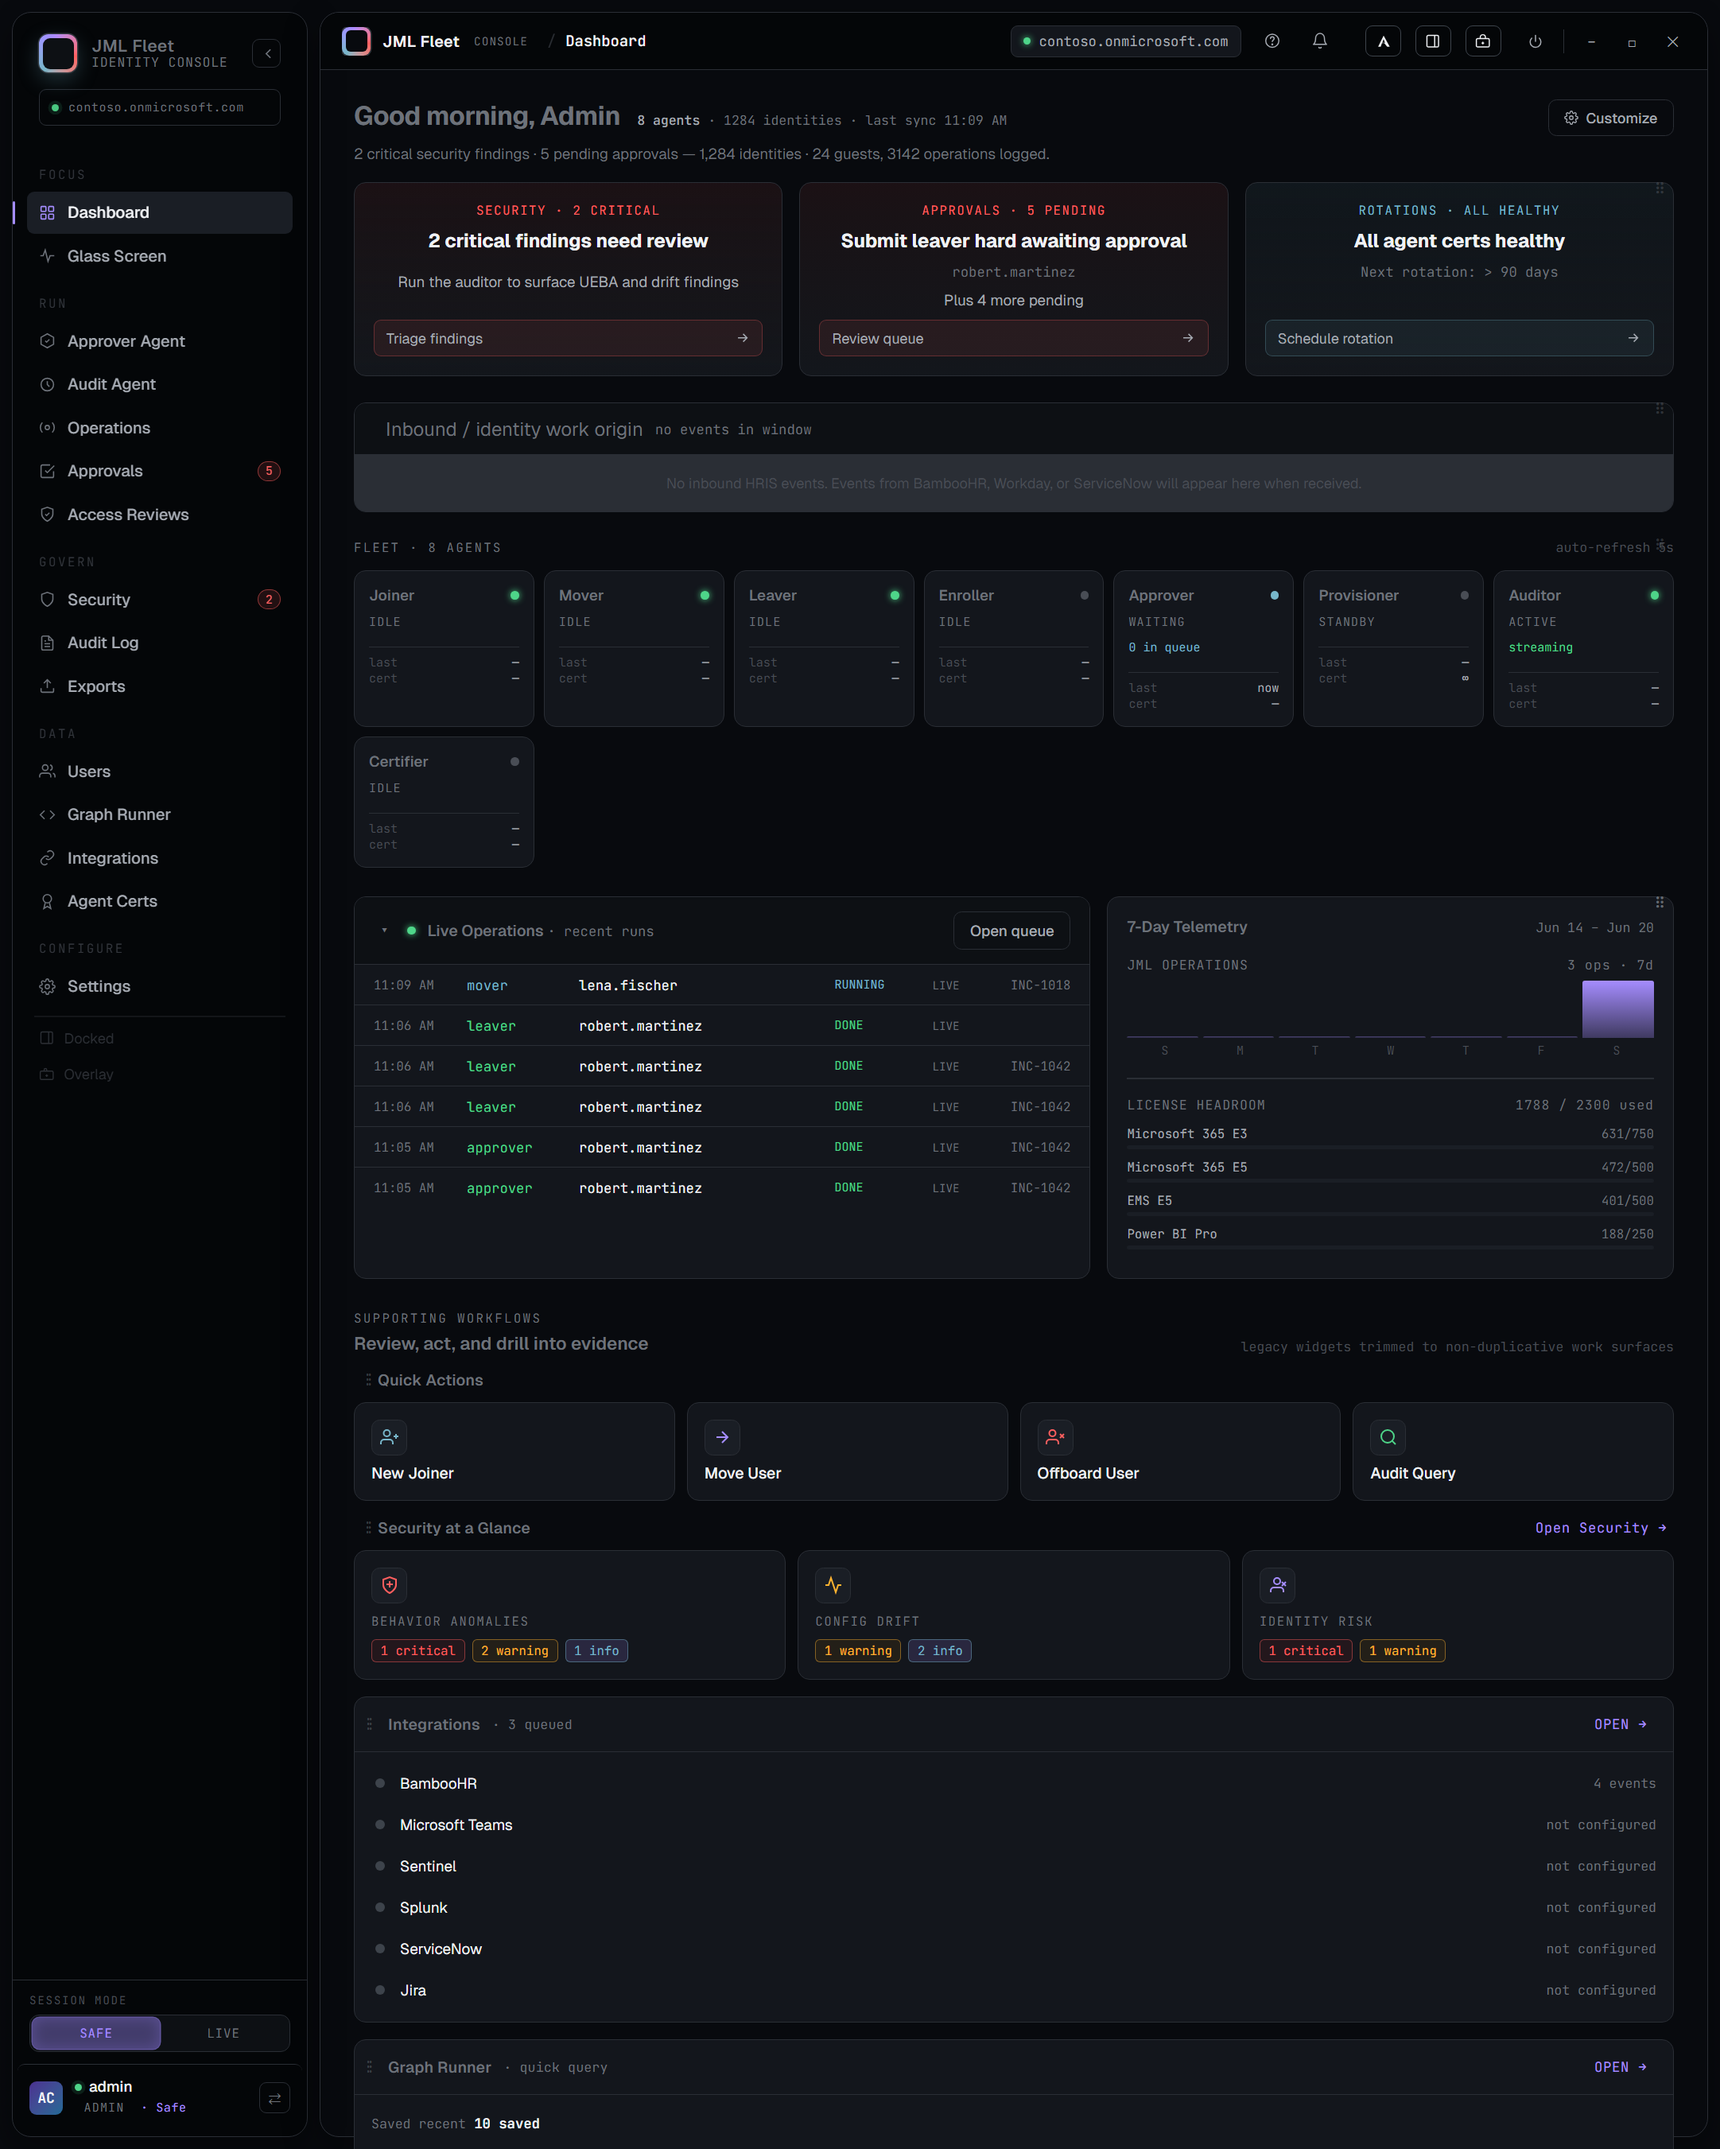
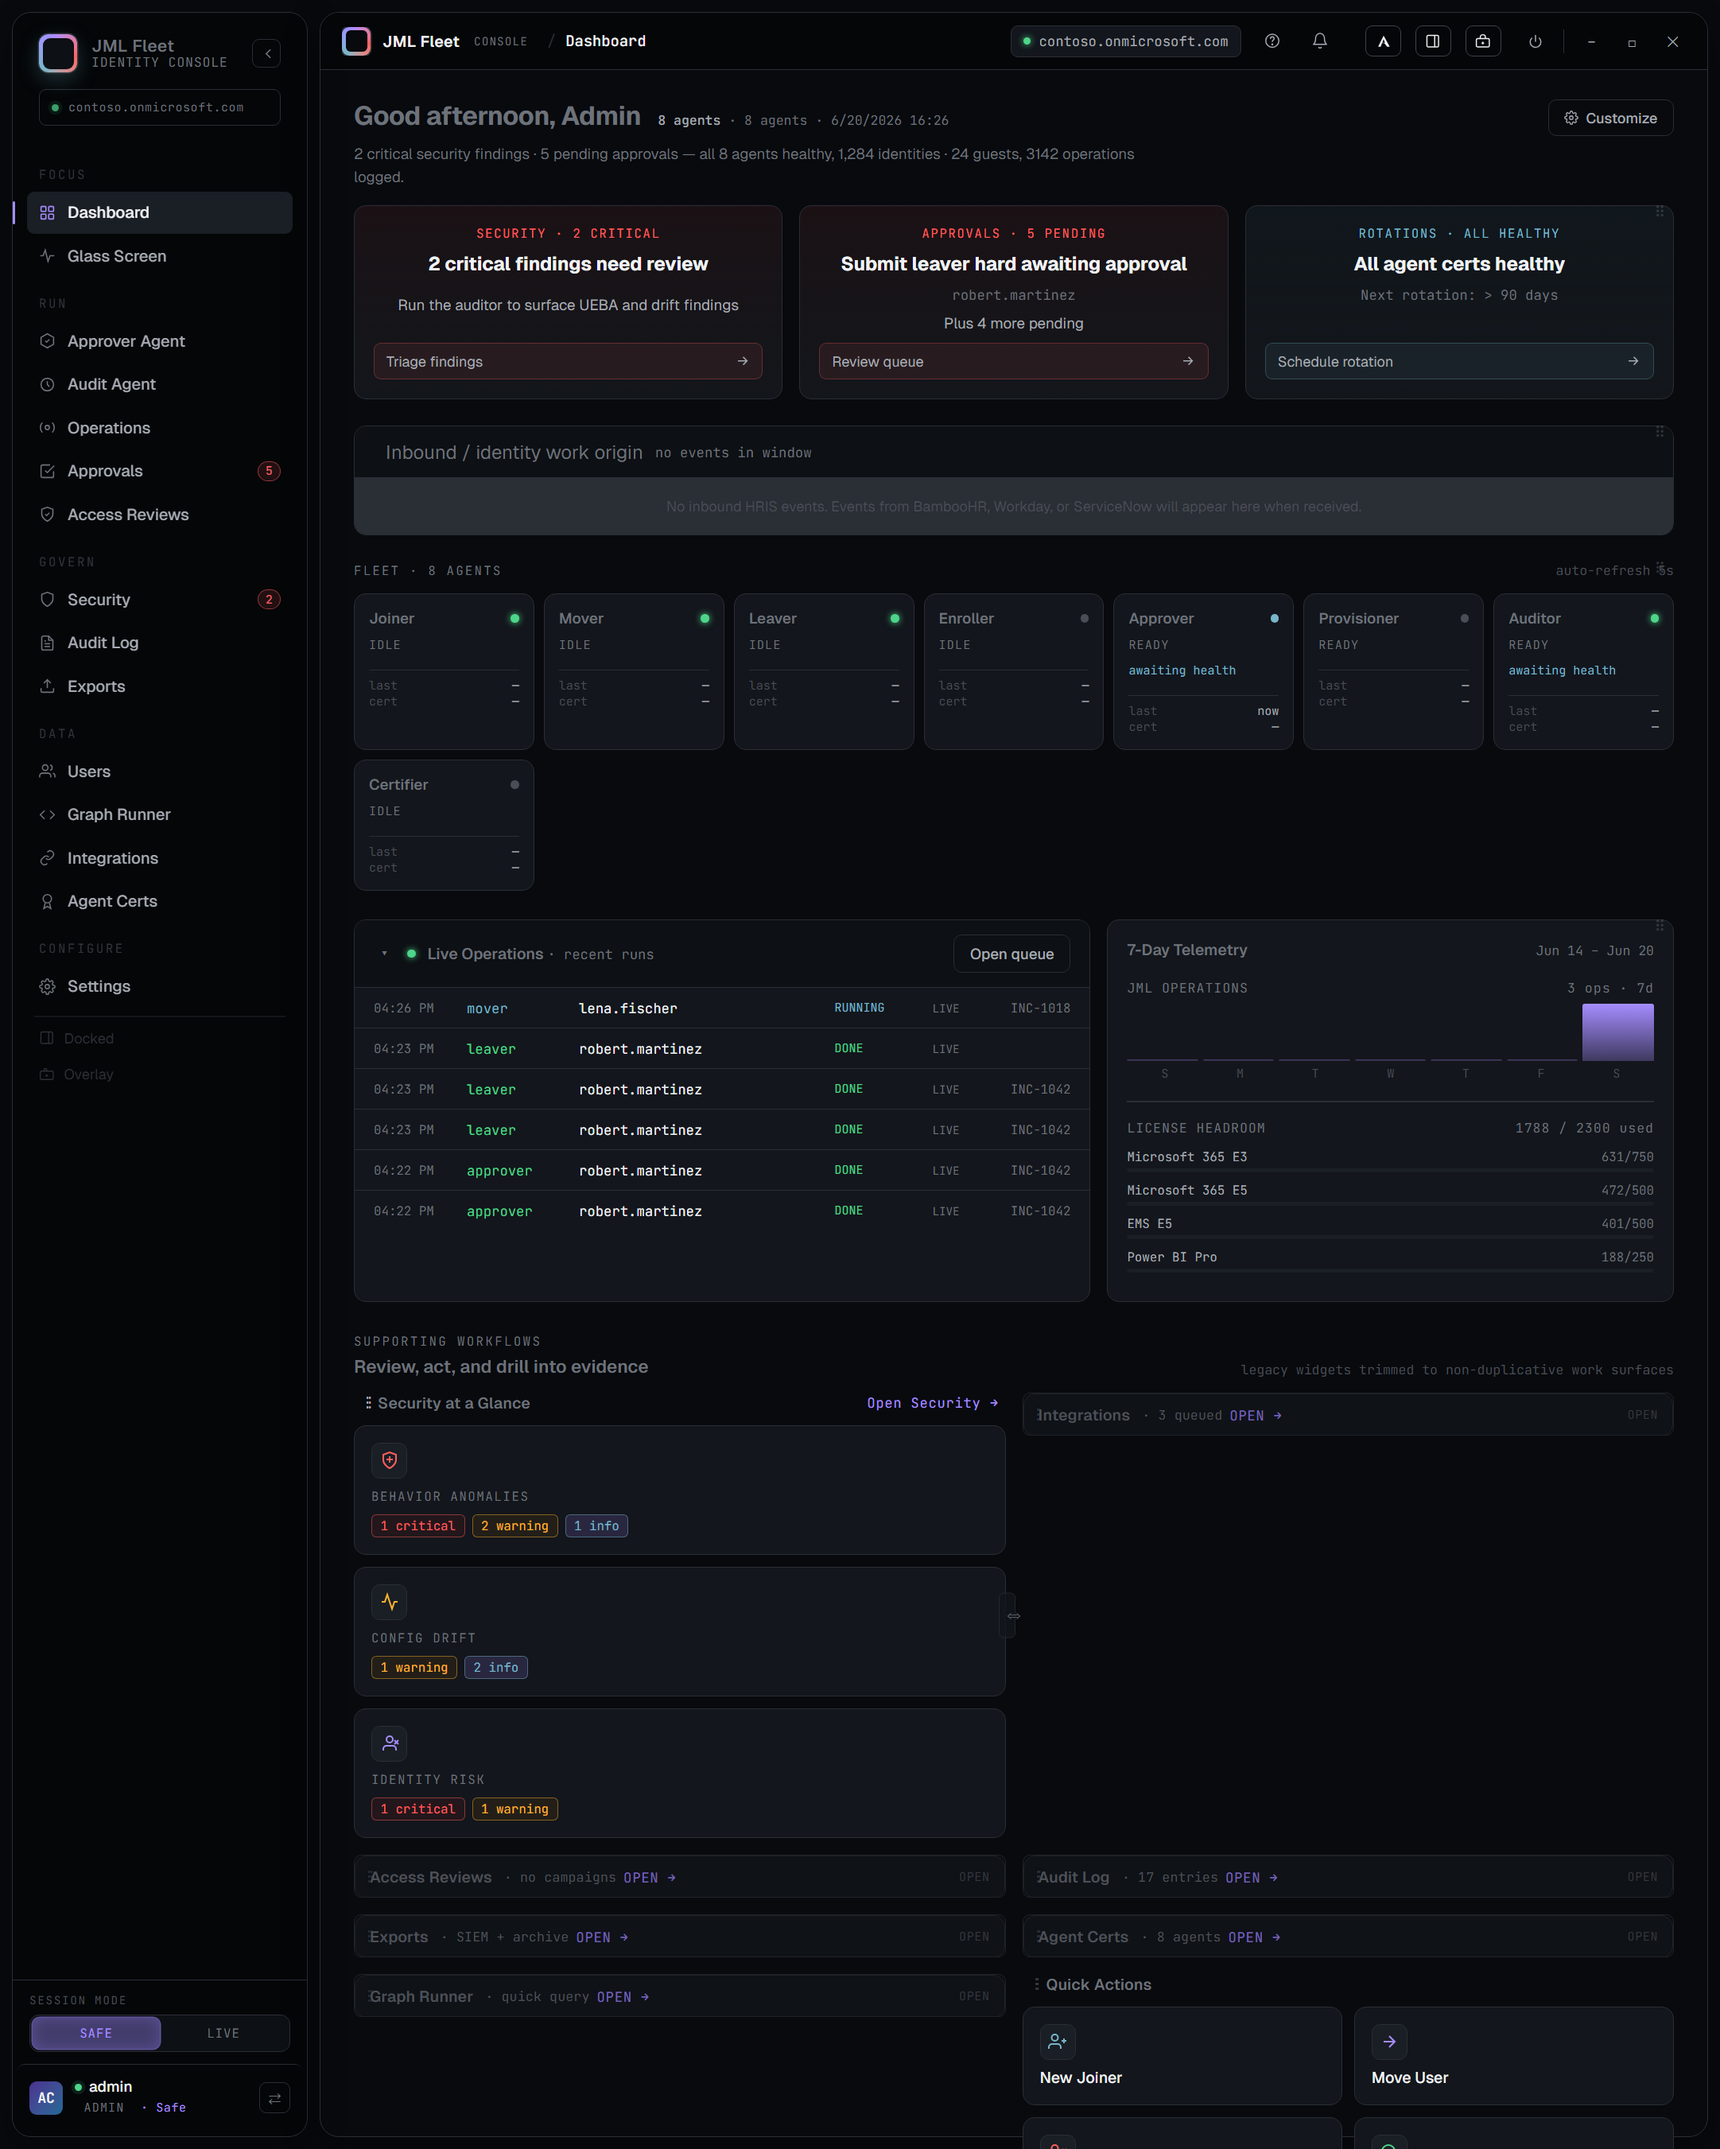
Dashboard KPI sparklines: wire JML Ops to real data, drop fake trends
The three KPI sparklines were hardcoded decorative SVG (fixed trend lines/bars
that never reflected data). The "JML Operations · 7d" sparkline is now driven by
the same real 7-day buckets as the telemetry card; the Identities and Pending
Approvals sparklines (no historical time-series exists to back them) are removed
rather than faking a trend. Also drops the "Roadmap" label chip from the Exports
connector strip per request (+ its now-unused CSS).

Screenshots refreshed (dashboard, exports). 130 tests pass.

diff --git a/electron-app/renderer/index.html b/electron-app/renderer/index.html
@@ -462,10 +462,6 @@
               <div class="lbl stat-label">Identities <span class="live">LIVE</span></div>
               <div class="v stat-value loading" id="stat-users-total">—</div>
               <div class="meta stat-detail loading" id="stat-users-detail">Loading…</div>
-              <svg class="spark" viewBox="0 0 100 40" preserveAspectRatio="none" aria-hidden="true">
-                <polyline fill="oklch(0.55 0.12 195 / .15)" stroke="none" points="0,30 12,28 22,29 35,22 48,24 60,18 72,15 85,12 100,8 100,40 0,40"/>
-                <polyline fill="none" stroke="oklch(0.82 0.14 195)" stroke-width="1.4" points="0,30 12,28 22,29 35,22 48,24 60,18 72,15 85,12 100,8"/>
-              </svg>
             </div>
             <div class="kpi stat-card k-licenses" id="stat-licenses">
               <div class="lbl stat-label">Licenses</div>
@@ -477,22 +473,13 @@
               <div class="v stat-value loading" id="stat-activity-total">—</div>
               <div class="meta stat-detail loading" id="stat-activity-detail">Loading…</div>
               <svg class="spark" viewBox="0 0 100 40" preserveAspectRatio="none" aria-hidden="true">
-                <g fill="oklch(0.55 0.14 75 / .5)" stroke="none">
-                  <rect x="2" y="20" width="6" height="20"/><rect x="12" y="15" width="6" height="25"/>
-                  <rect x="22" y="10" width="6" height="30"/><rect x="32" y="22" width="6" height="18"/>
-                  <rect x="42" y="18" width="6" height="22"/><rect x="52" y="8"  width="6" height="32"/>
-                  <rect x="62" y="12" width="6" height="28"/><rect x="72" y="14" width="6" height="26"/>
-                  <rect x="82" y="10" width="6" height="30"/><rect x="92" y="20" width="6" height="20"/>
-                </g>
+                <g id="stat-ops-spark" fill="oklch(0.55 0.14 75 / .5)" stroke="none"></g>
               </svg>
             </div>
             <div class="kpi stat-card k-risk" id="stat-approvals">
               <div class="lbl stat-label">Pending Approvals</div>
               <div class="v stat-value loading" id="stat-approvals-count">—</div>
               <div class="meta stat-detail" id="stat-approvals-detail">Loading…</div>
-              <svg class="spark" viewBox="0 0 100 40" preserveAspectRatio="none" aria-hidden="true">
-                <polyline fill="none" stroke="oklch(0.70 0.20 24)" stroke-width="1.4" points="0,28 12,30 25,28 38,22 50,24 62,18 75,14 88,10 100,12"/>
-              </svg>
             </div>
           </div>
           </div>
@@ -1731,8 +1718,7 @@
           </div>
 
           <!-- Roadmap connectors: compact footer instead of full empty cards. -->
-          <div class="exp-roadmap" aria-label="Roadmap connectors">
-            <span class="exp-roadmap-lbl">Roadmap</span>
+          <div class="exp-roadmap" aria-label="Planned connectors">
             <span class="exp-roadmap-item">Splunk Cloud <em>HEC</em></span>
             <span class="exp-roadmap-sep">·</span>
             <span class="exp-roadmap-item">AWS S3 Compliance Mirror <em>object-lock / WORM</em></span>

diff --git a/electron-app/renderer/app.js b/electron-app/renderer/app.js
@@ -3909,6 +3909,17 @@ function renderTelemetryChart(operations) {
   });
   const daySpans = document.querySelectorAll('.v2-bar-days span');
   buckets.forEach((b, i) => { if (daySpans[i]) daySpans[i].textContent = WK[b.date.getDay()][0]; });
+
+  // Dashboard KPI "JML Operations · 7d" sparkline — driven by the SAME real
+  // 7-day buckets (was a hardcoded decorative drawing). viewBox is 0 0 100 40.
+  const opsSpark = document.getElementById('stat-ops-spark');
+  if (opsSpark) {
+    const bw = 8, step = 14, base = 4;
+    opsSpark.innerHTML = buckets.map((b, i) => {
+      const h = b.count ? Math.max(3, Math.round((b.count / max) * 34)) : 2;
+      return `<rect x="${base + i * step}" y="${40 - h}" width="${bw}" height="${h}"></rect>`;
+    }).join('');
+  }
   const totalEl = document.getElementById('v2-telemetry-ops-total');
   if (totalEl) totalEl.textContent = `${total} ops · 7d`;
   const rangeEl = document.getElementById('v2-telemetry-range');

diff --git a/electron-app/renderer/styles.css b/electron-app/renderer/styles.css
@@ -3858,10 +3858,6 @@ label { font-size: 12.5px; color: var(--text-2); }
   background: color-mix(in oklch, var(--surface) 45%, transparent);
   font-size: 12px; color: var(--text-2);
 }
-.exp-roadmap-lbl {
-  font-family: var(--mono); font-size: 9.5px; letter-spacing: .12em; text-transform: uppercase;
-  color: var(--text-4, var(--muted)); padding: 2px 7px; border: 1px solid var(--border); border-radius: 4px;
-}
 .exp-roadmap-item { font-weight: 600; color: var(--text); }
 .exp-roadmap-item em { font-family: var(--mono); font-size: 10.5px; font-style: normal; font-weight: 400; color: var(--muted); margin-left: 4px; }
 .exp-roadmap-sep { color: var(--text-4, var(--muted)); }
